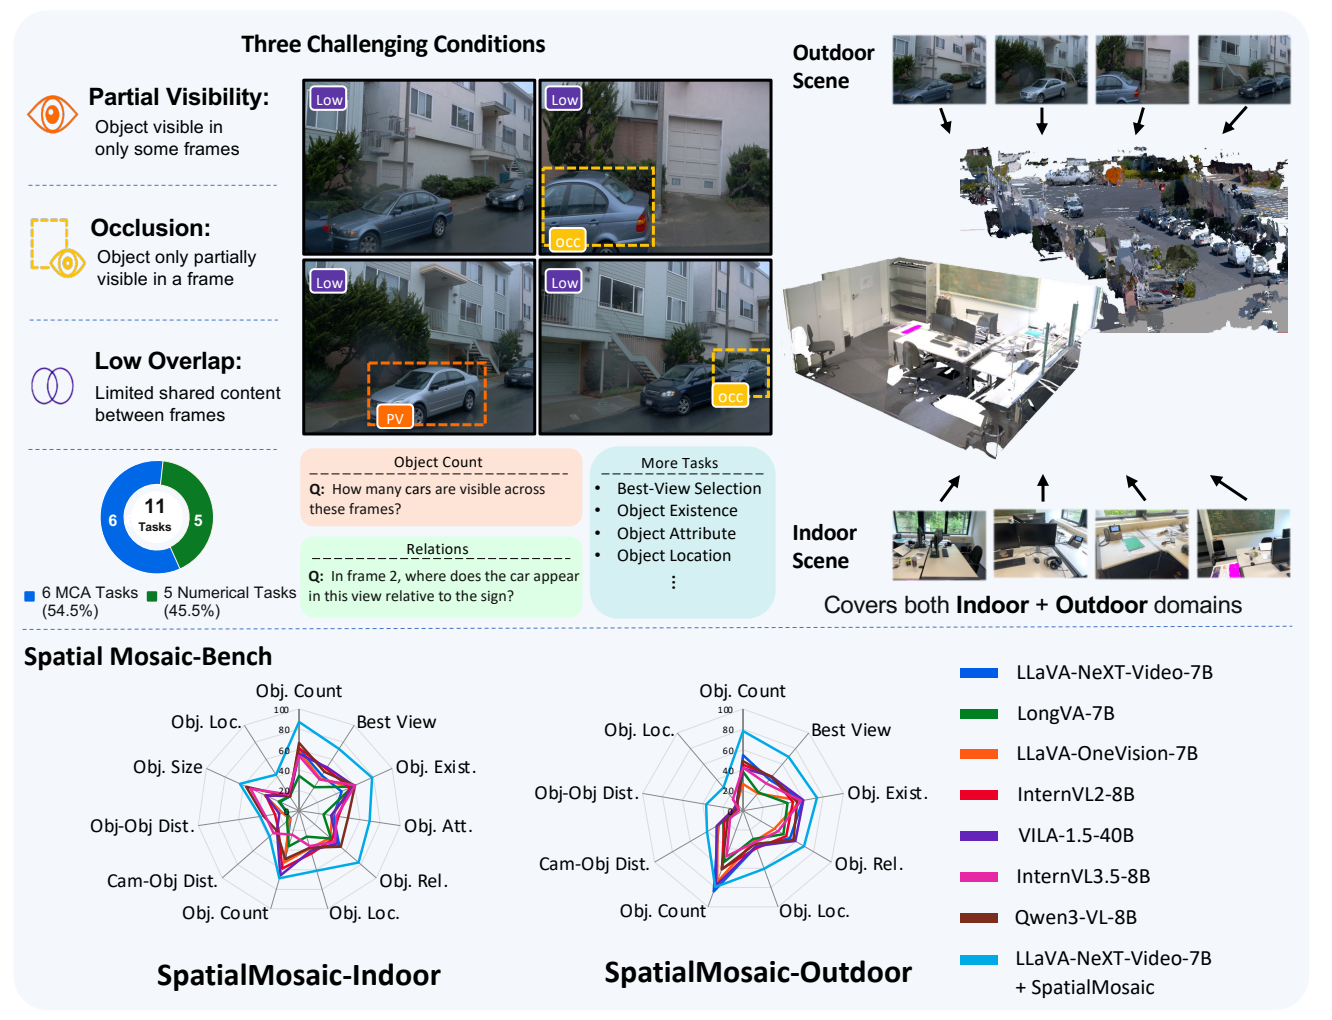
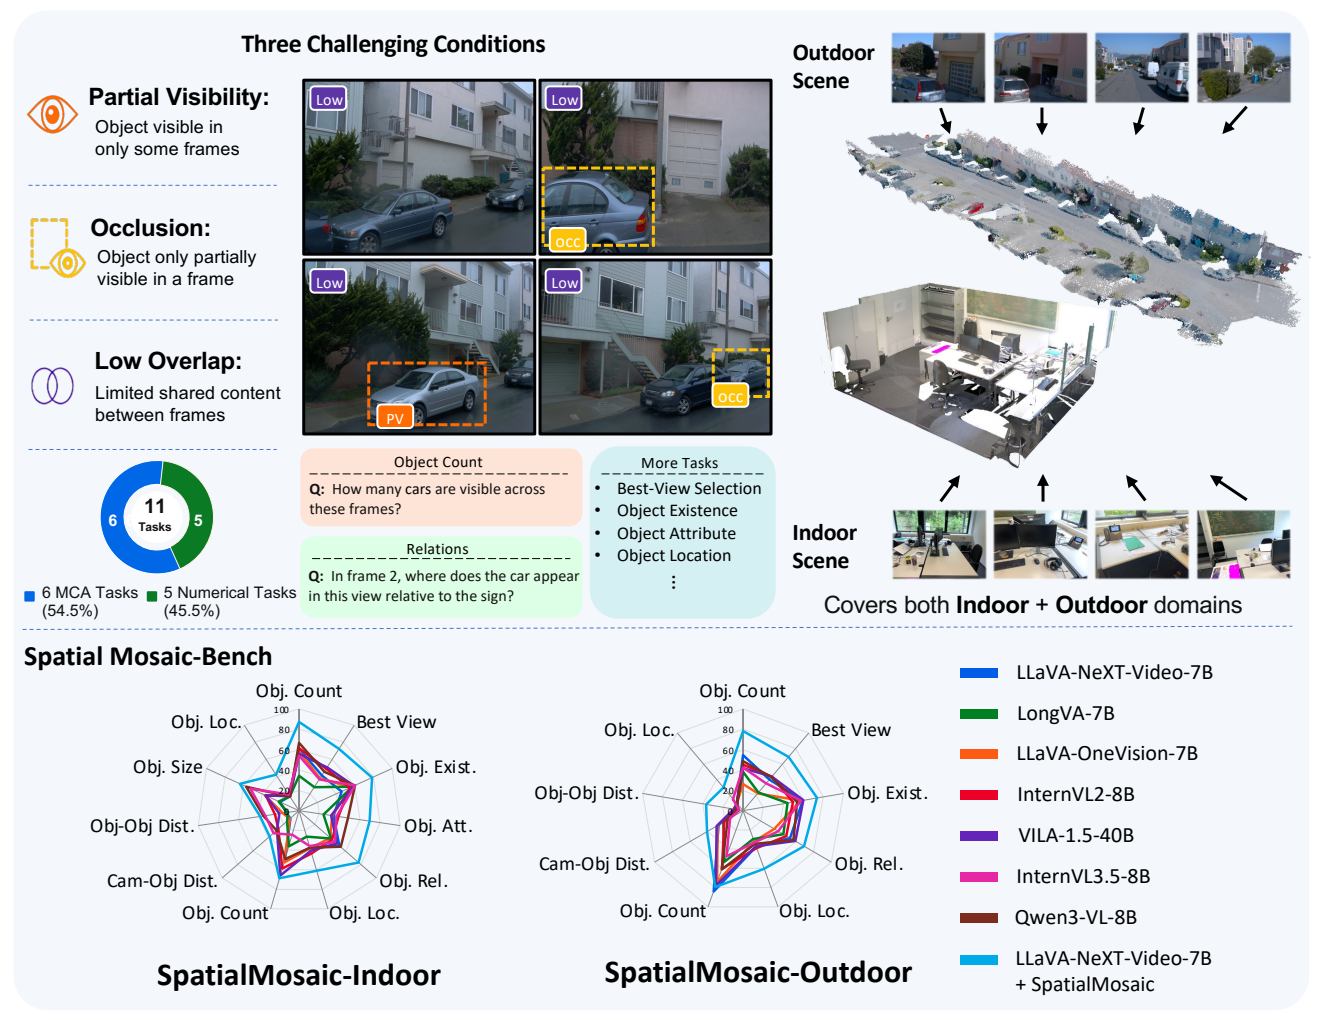
Init

diff --git a/README.md b/README.md
@@ -26,20 +26,24 @@ This repository contains training and evaluation code for Spatial Mosaic.
 
 Use `/spatial_mosaic` below as the repository root.
 
-## Contents
+## 📚 Contents
 
-- [SpatialMosaic](#spatialmosaic)
-  - [VQA Summary](#vqa-summary)
-  - [Task Types](#task-types)
-  - [Data Format and Examples](#data-format-and-examples)
-  - [Download](#download)
-  - [Train](#train)
-- [SpatialMosaic-Bench](#spatialmosaic-bench)
-  - [Eval](#eval)
+- [🧩 SpatialMosaic](#spatialmosaic)
+  - [📊 VQA Summary](#vqa-summary)
+  - [🎯 Task Types](#task-types)
+  - [🧾 Data Format and Examples](#data-format-and-examples)
+  - [📥 Download](#download)
+  - [🛠️ Train With Your Data](#train)
+- [🧪 SpatialMosaic-Bench](#spatialmosaic-bench)
+  - [📈 Eval](#eval)
 
-## SpatialMosaic
+<a id="spatialmosaic"></a>
 
-### VQA Summary
+## 🧩 SpatialMosaic
+
+<a id="vqa-summary"></a>
+
+### 📊 VQA Summary
 
 <p align="center">
   <img src="assets/dataset_summary.png" alt="Spatial Mosaic dataset summary" width="95%">
@@ -52,7 +56,9 @@ observations. The dataset covers indoor and outdoor scenes and asks questions
 about object counting, object presence and localization, best-view selection,
 object-object spatial relations, and view-specific position reasoning.
 
-### Task Types
+<a id="task-types"></a>
+
+### 🎯 Task Types
 
 <p align="center">
   <img src="assets/task_types.png" alt="Spatial Mosaic task type examples" width="95%">
@@ -64,42 +70,12 @@ representative reasoning patterns such as cross-view object counting and
 best-view selection, object presence and localization, object-object spatial
 relations, and view-specific position comparison.
 
+<a id="data-format-and-examples"></a>
 
+### 🧾 Data Format and Examples
 
-### Data Format and Examples
-
-The train and test splits use different JSON layouts. Training samples are
-stored in a conversation format for VLM instruction tuning, while test samples
-are flattened into question, option, answer, and evaluation metadata fields for
-benchmarking.
-
-Each training QA sample consists of:
-
-```json
-{
-  "id": "97c9a5ce-f377-4029-9e14-d54181cd5e2e",
-  "data_source": "scannetpp",
-  "scene_name": "35f2120068",
-  "question_type": "obj_spatial_occ_fb",
-  "frames": [
-    "frame_009770",
-    "frame_007960",
-    "frame_008450",
-    "frame_003460",
-    "frame_008240"
-  ],
-  "conversations": [
-    {
-      "from": "human",
-      "value": "<image>\nThese are frames of a video.\n\nIn frame_009770, where does the heater appear in this view relative to the cardboard box(217,122)?\n\nOptions:\nA. Lower than the cardboard box.\nB. Farther from the camera than the cardboard box.\nC. To the left of the cardboard box.\nD. Closer to the camera than the cardboard box.\nAnswer with the option's letter from the given choices directly."
-    },
-    {
-      "from": "gpt",
-      "value": "D"
-    }
-  ]
-}
-```
+The test split is flattened into question, option, answer, and evaluation
+metadata fields for benchmarking.
 
 Each test QA sample consists of:
 
@@ -142,7 +118,9 @@ images should be placed under
 metadata fields can vary by source; for example, indoor samples may include
 `ground_truth`, `bbox_2d`, and `bbox_2d_diag` when available.
 
-### Download
+<a id="download"></a>
+
+### 📥 Download
 
 We provide two scene sources for Spatial Mosaic:
 
@@ -173,8 +151,8 @@ spatial_mosaic_dataset/
 │   └── {scene_id}/
 │       └── images/
 └── spatial_mosaic_vqa/
-    ├── train/
-    └── test/
+    ├── merged_indoor_test.json
+    └── merged_outdoor_test.json
 ```
 
 The Spatial Mosaic VQA annotations are hosted on Hugging Face:
@@ -200,13 +178,15 @@ sha256sum -c SHA256SUMS
 tar -xzf spatial_mosaic_vqa.tar.gz
 ```
 
-After extraction, the VQA JSON files should be available under
-`spatial_mosaic_dataset/spatial_mosaic_vqa/train/` and
-`spatial_mosaic_dataset/spatial_mosaic_vqa/test/`.
+After extraction, the VQA JSON files should be available as
+`spatial_mosaic_dataset/spatial_mosaic_vqa/merged_indoor_test.json` and
+`spatial_mosaic_dataset/spatial_mosaic_vqa/merged_outdoor_test.json`.
 
-### Train
+<a id="train"></a>
 
-#### Environmental Setup
+### 🛠️ Train With Your Data
+
+#### ⚙️ Environmental Setup
 
 Create and activate the training environment:
 
@@ -234,7 +214,7 @@ PYTHONPATH=$(pwd):$PYTHONPATH
 cd ..
 ```
 
-#### How To Train
+#### 🚀 How To Train
 
 Training scripts are provided for both indoor and outdoor scenes, with standard
 and VGGT variants. The example below shows indoor LLaVA-NeXT training.
@@ -254,11 +234,15 @@ Then run training from the spatial_mosaic root:
 CUDA_VISIBLE_DEVICES=2,3 NUM_GPUS_PER_NODE=2 bash scripts/model/spatial_mosaic/indoor/train_llavanext.sh
 ```
 
-## SpatialMosaic-Bench
+<a id="spatialmosaic-bench"></a>
 
-### Eval
+## 🧪 SpatialMosaic-Bench
 
-#### Environmental Setup
+<a id="eval"></a>
+
+### 📈 Eval
+
+#### ⚙️ Environmental Setup
 
 Create the evaluation environment:
 
@@ -268,7 +252,7 @@ conda env create -f thinking-in-space/spatial_mosaic/environment.yaml
 conda activate vsibench
 ```
 
-#### How To Eval
+#### 🧪 How To Eval
 
 Evaluation scripts are provided for both indoor and outdoor scenes, with
 standard and VGGT variants. The example below shows indoor LLaVA-NeXT
@@ -281,6 +265,11 @@ with your checkpoint and data paths:
   Set `pretrained` to your checkpoint path. To evaluate the open-source
   LLaVA-NeXT-Video model, set `pretrained` to
   `lmms-lab/LLaVA-NeXT-Video-7B-Qwen2`.
+
+  **Note:** When evaluating a Hugging Face model directly, omit `model_base` from
+  `--model_args`. When evaluating a locally trained checkpoint by setting
+  `pretrained` to a local path, include `model_base` with the base model used
+  during training, such as `lmms-lab/LLaVA-NeXT-Video-7B-Qwen2`.
 - `/spatial_mosaic/thinking-in-space/lmms_eval/tasks/spatial_mosaic/indoor/indoor.yaml`
   Set the VQA data path.
 - `/spatial_mosaic/thinking-in-space/lmms_eval/tasks/spatial_mosaic/indoor/utils.py`